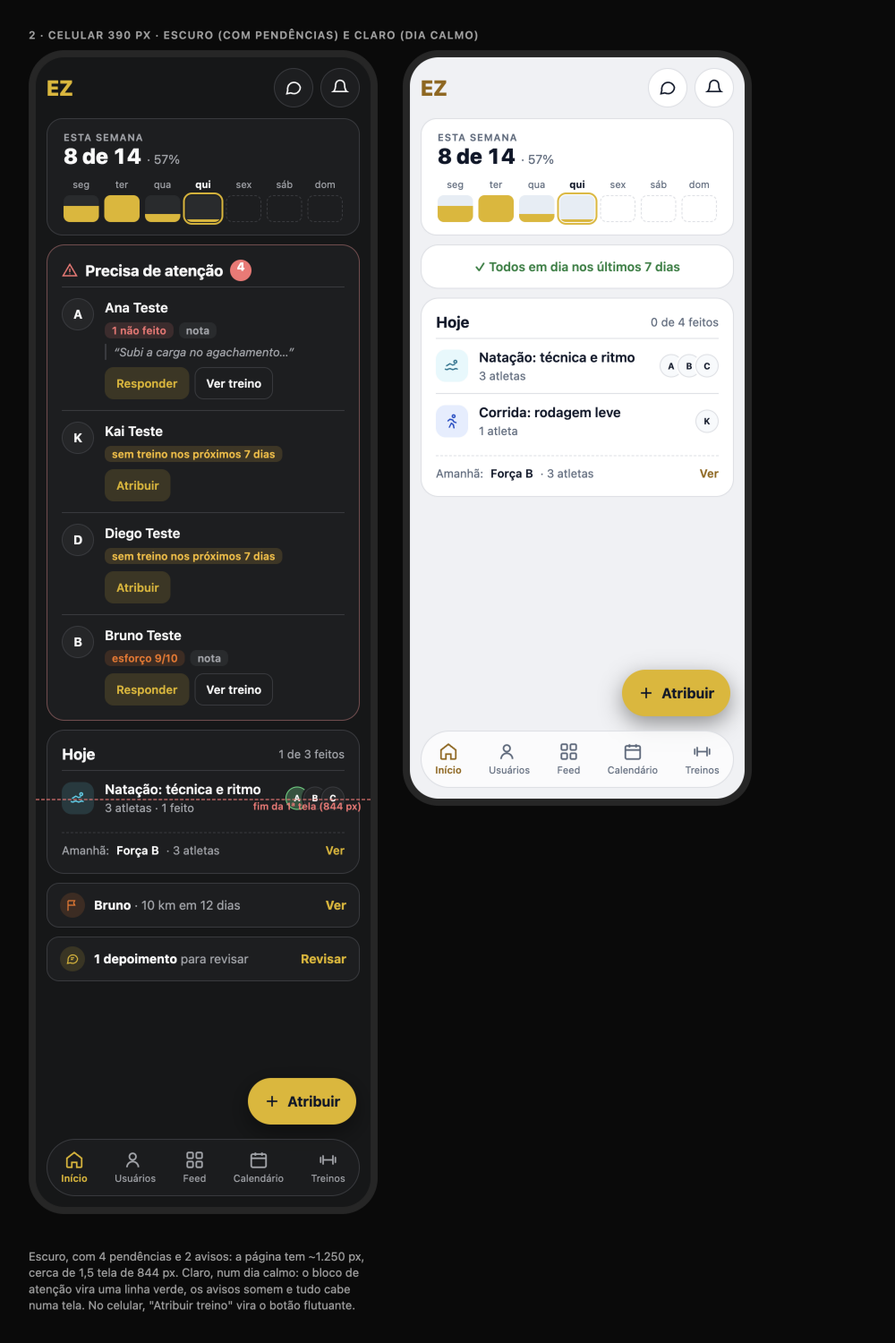
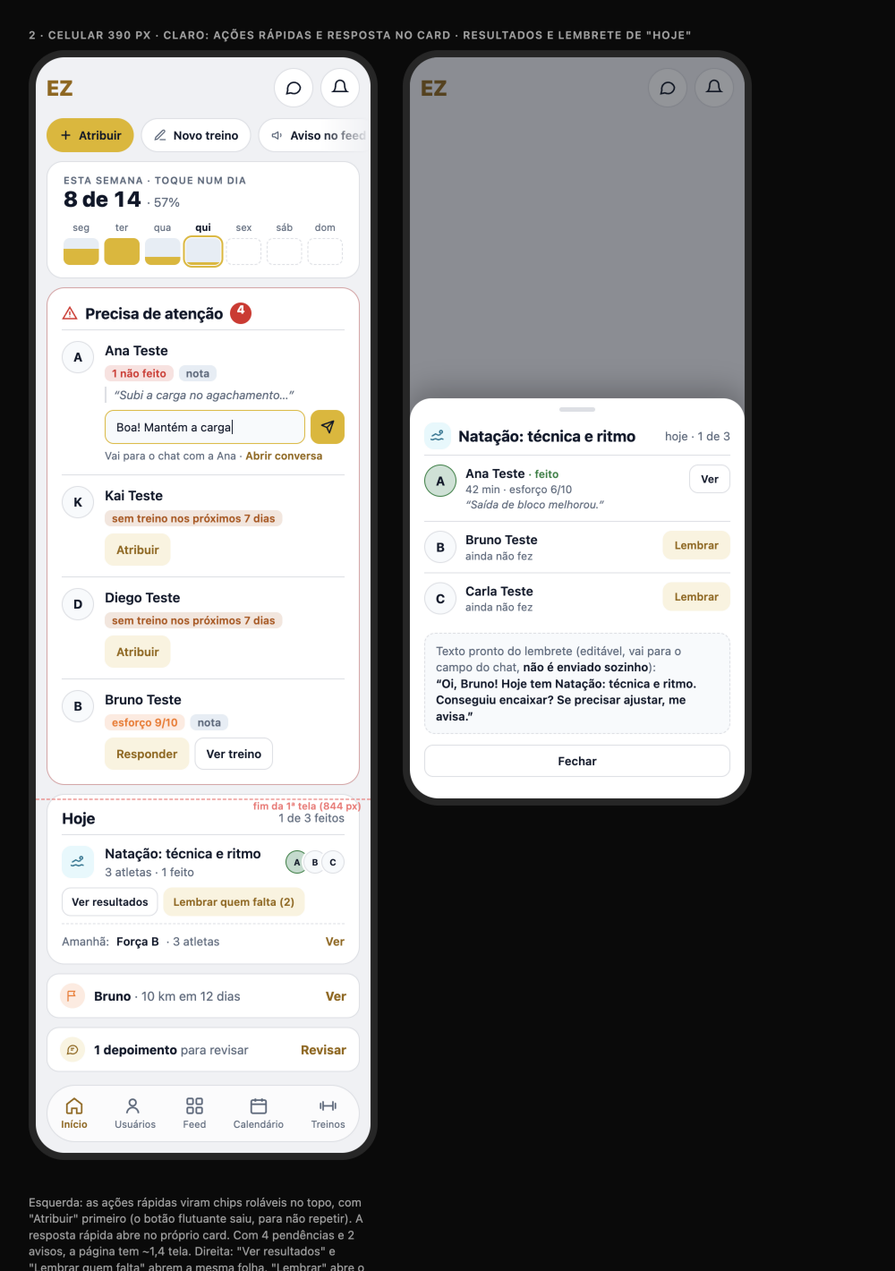
docs: coach dashboard quick actions (inline reply, today results/reminder, week day to calendar)

diff --git a/docs/design/coach-dashboard/dashboard-mockup.html b/docs/design/coach-dashboard/dashboard-mockup.html
@@ -3,7 +3,7 @@
 <head>
 <meta charset="utf-8">
 <meta name="viewport" content="width=device-width, initial-scale=1">
-<title>EZ · Dashboard do coach, versão enxuta (12/11/2026)</title>
+<title>EZ · Dashboard do coach, enxuto + ações rápidas (12/11/2026)</title>
 <!-- Mockup estático: só CSS e SVG inline. Dados fictícios do seed. Tokens: design-system §1.5. -->
 <style>
   :root{--font:'Inter',system-ui,-apple-system,'Segoe UI',sans-serif;--display:'Montserrat','Inter',system-ui,sans-serif;
@@ -70,6 +70,32 @@
   .tabs{position:absolute;left:12px;right:12px;bottom:12px;height:64px;border-radius:99px;display:flex;justify-content:space-around;align-items:center;font-size:11px;color:var(--mfg);background:color-mix(in srgb,var(--card) 70%,transparent);border:1px solid var(--border)}
   .tabs div{display:flex;flex-direction:column;align-items:center;gap:2px}.tabs .on{color:var(--ink);font-weight:600}.tabs svg{width:22px;height:22px}
   .fold{position:absolute;left:0;right:0;border-top:2px dashed hsl(0 91% 71% / .6);font:600 11px var(--font);color:hsl(0 91% 71%);text-align:right;padding-right:10px}
+
+  .qa{display:flex;gap:8px;align-items:center}
+  .qb{height:40px;padding:0 13px;border-radius:11px;border:1px solid var(--border);background:var(--card);font:600 13px var(--font);display:inline-flex;align-items:center;gap:7px;color:var(--fg);white-space:nowrap}
+  .qb svg{width:15px;height:15px;color:var(--mfg)}
+  .qb .new{font:700 10px var(--font);padding:1px 5px;border-radius:5px;background:hsl(48 96% 45% / .16);color:var(--ink)}
+  .rp{display:flex;gap:6px;margin-top:8px;align-items:center}
+  .rp .in{flex:1;height:38px;border-radius:10px;border:1px solid var(--primary);background:var(--s2);padding:0 12px;display:flex;align-items:center;font-size:13px;color:var(--fg);min-width:0;white-space:nowrap;overflow:hidden}
+  .rp .in i{width:1px;height:16px;background:var(--fg);margin-left:1px}
+  .rp .sd{width:38px;height:38px;border-radius:10px;background:var(--primary);display:grid;place-items:center;color:hsl(222 47% 11%);flex:none}.rp .sd svg{width:16px;height:16px}
+  .rph{font-size:12px;color:var(--mfg);margin-top:5px}.rph a{color:var(--ink);font-weight:600}
+  .wa{display:flex;gap:6px;margin:-2px 0 4px 48px}
+  .wa .ab{height:32px;font-size:12px;padding:0 10px}
+  .day{cursor:pointer}
+  .tip{position:absolute;top:44px;left:50%;transform:translateX(-50%);white-space:nowrap;background:var(--fg);color:var(--bg);font:600 12px var(--font);padding:5px 9px;border-radius:8px;z-index:2}
+  .tip:before{content:"";position:absolute;top:-5px;left:50%;margin-left:-5px;border:5px solid transparent;border-top:0;border-bottom-color:var(--fg)}
+  .chiprow{display:flex;gap:8px;overflow:hidden;margin:0 -12px;padding:0 12px;mask-image:linear-gradient(90deg,#000 85%,transparent)}
+  .chiprow .qb{height:38px;border-radius:99px}
+  .chiprow .qb.p{background:var(--primary);border-color:transparent;color:hsl(222 47% 11%)}.chiprow .qb.p svg{color:inherit}
+  .toast{position:absolute;left:50%;transform:translateX(-50%);bottom:24px;background:var(--fg);color:var(--bg);padding:10px 16px;border-radius:12px;font:600 13px var(--font);display:flex;gap:8px;align-items:center;box-shadow:0 8px 24px rgba(0,0,0,.35)}
+  .scrim{position:absolute;inset:0;background:rgba(15,20,30,.45)}
+  .sheet{position:absolute;left:0;right:0;bottom:0;background:var(--card);border-radius:24px 24px 0 0;padding:10px 16px 24px;box-shadow:0 -10px 30px rgba(0,0,0,.25)}
+  .sheet .gr{width:40px;height:5px;border-radius:9px;background:var(--border);margin:0 auto 12px}
+  .rr{display:flex;gap:10px;align-items:flex-start;padding:10px 0;border-top:1px solid var(--border);font-size:14px}
+  .rr .t{flex:1;min-width:0}.rr .t b{font-weight:600}.rr .t span{display:block;font-size:12px;color:var(--mfg)}
+  .draft{margin-top:10px;border-radius:12px;background:var(--s2);border:1px dashed var(--border);padding:10px 12px;font-size:13px;color:var(--mfg)}
+  .draft b{color:var(--fg);font-weight:600}
 </style>
 </head>
 <body>
@@ -88,22 +114,33 @@
   <symbol id="grid" viewBox="0 0 24 24" fill="none" stroke="currentColor" stroke-width="2"><rect x="3" y="3" width="7" height="7" rx="1.5"/><rect x="14" y="3" width="7" height="7" rx="1.5"/><rect x="3" y="14" width="7" height="7" rx="1.5"/><rect x="14" y="14" width="7" height="7" rx="1.5"/></symbol>
   <symbol id="cal" viewBox="0 0 24 24" fill="none" stroke="currentColor" stroke-width="2"><rect x="3" y="5" width="18" height="16" rx="2"/><path d="M3 10h18M8 3v4M16 3v4"/></symbol>
   <symbol id="bell" viewBox="0 0 24 24" fill="none" stroke="currentColor" stroke-width="2"><path d="M6 8a6 6 0 0 1 12 0c0 7 3 9 3 9H3s3-2 3-9"/></symbol>
+<symbol id="send" viewBox="0 0 24 24" fill="none" stroke="currentColor" stroke-width="2.2" stroke-linecap="round" stroke-linejoin="round"><path d="M22 2 11 13M22 2l-7 20-4-9-9-4Z"/></symbol>
+  <symbol id="edit" viewBox="0 0 24 24" fill="none" stroke="currentColor" stroke-width="2" stroke-linecap="round"><path d="M12 20h9"/><path d="M16.5 3.5a2.1 2.1 0 0 1 3 3L7 19l-4 1 1-4Z"/></symbol>
+  <symbol id="mega" viewBox="0 0 24 24" fill="none" stroke="currentColor" stroke-width="2" stroke-linejoin="round"><path d="M3 11v3a1 1 0 0 0 1 1h3l6 4V6L7 10H4a1 1 0 0 0-1 1Z"/><path d="M17 9a4 4 0 0 1 0 6"/></symbol>
+  <symbol id="team" viewBox="0 0 24 24" fill="none" stroke="currentColor" stroke-width="2"><circle cx="8" cy="8" r="3"/><circle cx="17" cy="9" r="2.5"/><path d="M2 20a6 6 0 0 1 12 0M14 20a4.5 4.5 0 0 1 8 0"/></symbol>
+  <symbol id="link" viewBox="0 0 24 24" fill="none" stroke="currentColor" stroke-width="2" stroke-linecap="round"><path d="M10 14a4 4 0 0 0 5.7 0l3-3a4 4 0 0 0-5.7-5.7l-1 1"/><path d="M14 10a4 4 0 0 0-5.7 0l-3 3a4 4 0 0 0 5.7 5.7l1-1"/></symbol>
+  <symbol id="bellr" viewBox="0 0 24 24" fill="none" stroke="currentColor" stroke-width="2"><path d="M6 8a6 6 0 0 1 12 0c0 7 3 9 3 9H3s3-2 3-9"/><path d="M10 21h4"/></symbol>
+  <symbol id="chart" viewBox="0 0 24 24" fill="none" stroke="currentColor" stroke-width="2" stroke-linecap="round"><path d="M4 20V10M10 20V4M16 20v-7M22 20H2"/></symbol>
+  <symbol id="check" viewBox="0 0 24 24" fill="none" stroke="currentColor" stroke-width="2.6" stroke-linecap="round" stroke-linejoin="round"><path d="m5 12 5 5 9-10"/></symbol>
 </defs></svg>
 
-<h1 class="ttl">EZ · Dashboard do coach: versão enxuta</h1>
-<p class="doc">Mockup estático (12/11/2026), dados fictícios do seed. Três perguntas, em ordem de importância: <b>quem precisa de mim?</b> (bloco principal, com ações) · <b>o que acontece hoje?</b> (agrupado por treino, com amanhã numa linha) · <b>como vai a semana?</b> (um número, "8 de 14 · 57%", só da semana, e a barra dos dias). Provas próximas e depoimento pendente só aparecem como aviso de uma linha quando existem.</p>
+<h1 class="ttl">EZ · Dashboard do coach: enxuto + ações rápidas</h1>
+<p class="doc">Mockup estático (12/11/2026), dados fictícios do seed. As mesmas três perguntas (<b>quem precisa de mim?</b> · <b>o que acontece hoje?</b> · <b>como vai a semana?</b>), agora com <b>mais ações e nenhum número a mais</b>: faixa de ações rápidas, resposta no próprio card, resultados e lembrete por treino, e cada dia da semana abre o Calendário. Nenhum dado novo; o que reaproveita e o que é código novo está no README.</p>
 
 <div class="lbl">1 · Desktop 1440 × 900 · escuro · cabe numa tela</div>
-<div class="row"><div class="desk dark">
+<div class="row"><div class="desk dark" style="position:relative">
  <div class="side"><div class="lg">EZ</div><div class="i on">Início</div><div class="i">Usuários</div><div class="i">Treinos</div><div class="i">Times</div><div class="i">Calendário</div><div class="i">Artigos</div><div class="i">Feed</div><div class="i">Depoimentos</div></div>
  <div class="main">
-  <div class="head"><div class="t"><small>Quinta, 12 nov</small><b>Bom dia, Coach</b></div><span class="btn"><svg width="16" height="16"><use href="#plus"/></svg>Atribuir treino</span></div>
+  <div class="head"><div class="t"><small>Quinta, 12 nov</small><b>Bom dia, Coach</b></div>
+   <div class="qa"><span class="qb"><svg width="14" height="14"><use href="#edit"/></svg>Novo treino</span><span class="qb"><svg width="14" height="14"><use href="#mega"/></svg>Aviso no feed</span><span class="qb"><svg width="14" height="14"><use href="#team"/></svg>Mensagem ao time</span><span class="qb"><svg width="14" height="14"><use href="#link"/></svg>Convidar atleta</span><span class="btn"><svg width="16" height="16"><use href="#plus"/></svg>Atribuir treino</span></div></div>
   <div class="wk"><div class="num"><small>Esta semana</small><b>8 de 14</b><span>· 57%</span></div>
-   <div class="days"><div class="day">seg<div class="col"><i style="height:60%"></i></div></div><div class="day">ter<div class="col"><i style="height:100%"></i></div></div><div class="day">qua<div class="col"><i style="height:30%"></i></div></div><div class="day on">qui<div class="col"><i style="height:10%"></i></div></div><div class="day">sex<div class="col fut"></div></div><div class="day">sáb<div class="col fut"></div></div><div class="day">dom<div class="col fut"></div></div></div></div>
+   <div class="days"><div class="day">seg<div class="col"><i style="height:60%"></i></div></div><div class="day">ter<div class="col"><i style="height:100%"></i></div></div><div class="day" style="position:relative">qua<div class="col" style="outline:2px solid var(--fg);outline-offset:1px"><i style="height:30%"></i></div><span class="tip">Abrir qua, 11 nov no Calendário</span></div><div class="day on">qui<div class="col"><i style="height:10%"></i></div></div><div class="day">sex<div class="col fut"></div></div><div class="day">sáb<div class="col fut"></div></div><div class="day">dom<div class="col fut"></div></div></div></div>
   <div class="g2">
    <div class="att">
     <div class="ch"><b><svg width="18" height="18" style="color:var(--badc)"><use href="#alert"/></svg>Precisa de atenção <span class="cnt">4</span></b><span class="r">últimos 7 dias</span></div>
-    <div class="ai wide"><span class="av">A</span><div class="t"><div class="nm">Ana Teste</div><div class="chips"><span class="chip c-bad">1 não feito</span><span class="chip c-mut">nota</span></div><div class="quote">“Subi a carga no agachamento. Última série pesada.”</div></div><div class="acts"><span class="ab y"><svg width="14" height="14"><use href="#msg"/></svg>Responder</span><span class="ab"><svg width="14" height="14"><use href="#eye"/></svg>Ver treino</span></div></div>
+    <div class="ai"><span class="av">A</span><div class="t"><div class="nm">Ana Teste</div><div class="chips"><span class="chip c-bad">1 não feito</span><span class="chip c-mut">nota</span></div><div class="quote">“Subi a carga no agachamento. Última série pesada.”</div>
+      <div class="rp"><div class="in">Boa! Na próxima, mantém a carga e controla a descida<i></i></div><span class="sd"><svg width="14" height="14"><use href="#send"/></svg></span></div>
+      <div class="rph">Vai para o chat com a Ana · Esc fecha · <a>Abrir conversa</a></div></div></div>
     <div class="ai wide"><span class="av">K</span><div class="t"><div class="nm">Kai Teste</div><div class="chips"><span class="chip c-warn">sem treino nos próximos 7 dias</span></div></div><div class="acts"><span class="ab y"><svg width="14" height="14"><use href="#plus"/></svg>Atribuir</span></div></div>
     <div class="ai wide"><span class="av">D</span><div class="t"><div class="nm">Diego Teste</div><div class="chips"><span class="chip c-warn">sem treino nos próximos 7 dias</span></div></div><div class="acts"><span class="ab y"><svg width="14" height="14"><use href="#plus"/></svg>Atribuir</span></div></div>
     <div class="ai wide"><span class="av">B</span><div class="t"><div class="nm">Bruno Teste</div><div class="chips"><span class="chip c-str">esforço 9/10</span><span class="chip c-mut">nota</span></div><div class="quote">“Saí mais cedo, dor no ombro.”</div></div><div class="acts"><span class="ab y"><svg width="14" height="14"><use href="#msg"/></svg>Responder</span><span class="ab"><svg width="14" height="14"><use href="#eye"/></svg>Ver treino</span></div></div>
@@ -111,6 +148,7 @@
    <div style="display:grid;gap:12px">
     <div class="card"><div class="ch" style="margin-bottom:8px"><b>Hoje</b><span class="r">1 de 3 feitos</span></div>
      <div class="ag"><span class="si" style="background:hsl(188 86% 53% / .15);color:var(--swim)"><svg><use href="#swim"/></svg></span><div class="t"><b>Natação: técnica e ritmo</b><span>3 atletas · 1 feito</span></div><span class="stack"><span class="av ok">A</span><span class="av">B</span><span class="av">C</span></span></div>
+     <div class="wa"><span class="ab"><svg width="14" height="14"><use href="#chart"/></svg>Ver resultados</span><span class="ab y"><svg width="14" height="14"><use href="#bellr"/></svg>Lembrar quem falta (2)</span></div>
      <div class="tmr">Amanhã: <b>Força B: membros superiores</b> · 3 atletas<a>Ver</a></div>
     </div>
     <div class="nt"><span class="ic" style="background:hsl(25 95% 53% / .15);color:var(--str)"><svg><use href="#flag"/></svg></span><span><b>Bruno Teste</b> <span class="m">· Corrida 10 km em 12 dias</span></span><a>Ver</a></div>
@@ -118,50 +156,51 @@
    </div>
   </div>
  </div>
+ <div class="toast" style="left:calc(220px + 50%)"><svg width="16" height="16"><use href="#check"/></svg>Link de convite do time copiado</div>
 </div></div>
-<p class="note" style="max-width:1100px;margin-top:-28px;margin-bottom:40px">Tudo cabe em 1440 × 900 sem rolar. Os avisos (prova em menos de 14 dias, depoimento para revisar) só aparecem quando existem; sem eles, a coluna da direita fica só com "Hoje". "Sem treino nos próximos 7 dias" continua visível, como o usuário pediu, com a ação Atribuir.</p>
+<p class="note" style="max-width:1100px;margin-top:-28px;margin-bottom:40px">Cabe em 1440 × 900 sem rolar. Estados mostrados ao mesmo tempo só para o mockup: resposta rápida aberta na Ana, dica ao passar o mouse em "qua" e o toast de "Convidar atleta". "Atribuir treino" continua o botão principal, à direita.</p>
 
-<div class="lbl">2 · Celular 390 px · escuro (com pendências) e claro (dia calmo)</div>
+<div class="lbl">2 · Celular 390 px · claro: ações rápidas e resposta no card · resultados e lembrete de "Hoje"</div>
 <div class="row">
-<div class="phone dark">
+<div class="phone light" style="height:1240px">
  <div class="top"><span style="font:800 24px var(--display);color:var(--ink)">EZ</span><div style="display:flex;gap:8px"><div class="g"><svg><use href="#msg"/></svg></div><div class="g"><svg><use href="#bell"/></svg></div></div></div>
  <div class="pp">
-  <div class="wk"><div class="num"><small>Esta semana</small><b>8 de 14</b><span>· 57%</span></div>
-   <div class="days"><div class="day">seg<div class="col"><i style="height:60%"></i></div></div><div class="day">ter<div class="col"><i style="height:100%"></i></div></div><div class="day">qua<div class="col"><i style="height:30%"></i></div></div><div class="day on">qui<div class="col"><i style="height:10%"></i></div></div><div class="day">sex<div class="col fut"></div></div><div class="day">sáb<div class="col fut"></div></div><div class="day">dom<div class="col fut"></div></div></div></div>
+  <div class="chiprow"><span class="qb p"><svg width="14" height="14"><use href="#plus"/></svg>Atribuir</span><span class="qb"><svg width="14" height="14"><use href="#edit"/></svg>Novo treino</span><span class="qb"><svg width="14" height="14"><use href="#mega"/></svg>Aviso no feed</span><span class="qb"><svg width="14" height="14"><use href="#team"/></svg>Mensagem ao time</span><span class="qb"><svg width="14" height="14"><use href="#link"/></svg>Convidar</span></div>
+  <div class="wk"><div class="num"><small>Esta semana · toque num dia</small><b>8 de 14</b><span>· 57%</span></div>
+   <div class="days"><div class="day">seg<div class="col"><i style="height:60%"></i></div></div><div class="day">ter<div class="col"><i style="height:100%"></i></div></div><div class="day" style="position:relative">qua<div class="col" ><i style="height:30%"></i></div></div><div class="day on">qui<div class="col"><i style="height:10%"></i></div></div><div class="day">sex<div class="col fut"></div></div><div class="day">sáb<div class="col fut"></div></div><div class="day">dom<div class="col fut"></div></div></div></div>
   <div class="att">
    <div class="ch"><b><svg width="18" height="18" style="color:var(--badc)"><use href="#alert"/></svg>Precisa de atenção <span class="cnt">4</span></b></div>
-   <div class="ai"><span class="av">A</span><div class="t"><div class="nm">Ana Teste</div><div class="chips"><span class="chip c-bad">1 não feito</span><span class="chip c-mut">nota</span></div><div class="quote">“Subi a carga no agachamento…”</div><div class="acts"><span class="ab y">Responder</span><span class="ab">Ver treino</span></div></div></div>
+   <div class="ai"><span class="av">A</span><div class="t"><div class="nm">Ana Teste</div><div class="chips"><span class="chip c-bad">1 não feito</span><span class="chip c-mut">nota</span></div><div class="quote">“Subi a carga no agachamento…”</div>
+     <div class="rp"><div class="in">Boa! Mantém a carga<i></i></div><span class="sd"><svg width="14" height="14"><use href="#send"/></svg></span></div>
+     <div class="rph">Vai para o chat com a Ana · <a>Abrir conversa</a></div></div></div>
    <div class="ai"><span class="av">K</span><div class="t"><div class="nm">Kai Teste</div><div class="chips"><span class="chip c-warn">sem treino nos próximos 7 dias</span></div><div class="acts"><span class="ab y">Atribuir</span></div></div></div>
    <div class="ai"><span class="av">D</span><div class="t"><div class="nm">Diego Teste</div><div class="chips"><span class="chip c-warn">sem treino nos próximos 7 dias</span></div><div class="acts"><span class="ab y">Atribuir</span></div></div></div>
    <div class="ai" style="padding-bottom:0"><span class="av">B</span><div class="t"><div class="nm">Bruno Teste</div><div class="chips"><span class="chip c-str">esforço 9/10</span><span class="chip c-mut">nota</span></div><div class="acts"><span class="ab y">Responder</span><span class="ab">Ver treino</span></div></div></div>
   </div>
   <div class="card"><div class="ch" style="margin-bottom:8px"><b>Hoje</b><span class="r">1 de 3 feitos</span></div>
-   <div class="ag"><span class="si" style="background:hsl(188 86% 53% / .15);color:var(--swim)"><svg><use href="#swim"/></svg></span><div class="t"><b>Natação: técnica e ritmo</b><span>3 atletas · 1 feito</span></div><span class="stack"><span class="av ok">A</span><span class="av">B</span><span class="av">C</span></span></div>
+   <div class="ag"><span class="si" style="background:hsl(188 86% 53% / .15);color:hsl(192 91% 30%)"><svg><use href="#swim"/></svg></span><div class="t"><b>Natação: técnica e ritmo</b><span>3 atletas · 1 feito</span></div><span class="stack"><span class="av ok">A</span><span class="av">B</span><span class="av">C</span></span></div>
+   <div class="wa" style="margin-left:0"><span class="ab">Ver resultados</span><span class="ab y">Lembrar quem falta (2)</span></div>
    <div class="tmr">Amanhã: <b>Força B</b> · 3 atletas<a>Ver</a></div>
   </div>
   <div class="nt"><span class="ic" style="background:hsl(25 95% 53% / .15);color:var(--str)"><svg><use href="#flag"/></svg></span><span><b>Bruno</b> <span class="m">· 10 km em 12 dias</span></span><a>Ver</a></div>
   <div class="nt"><span class="ic" style="background:hsl(48 96% 45% / .15);color:var(--ink)"><svg><use href="#quote"/></svg></span><span><b>1 depoimento</b> <span class="m">para revisar</span></span><a>Revisar</a></div>
  </div>
  <div class="fold" style="top:828px">fim da 1ª tela (844 px)</div>
- <div class="fab"><svg width="18" height="18"><use href="#plus"/></svg>Atribuir</div>
  <div class="tabs"><div class="on"><svg><use href="#home"/></svg>Início</div><div><svg><use href="#users"/></svg>Usuários</div><div><svg><use href="#grid"/></svg>Feed</div><div><svg><use href="#cal"/></svg>Calendário</div><div><svg><use href="#dumb"/></svg>Treinos</div></div>
 </div>
 <div class="phone light" style="height:844px">
  <div class="top"><span style="font:800 24px var(--display);color:var(--ink)">EZ</span><div style="display:flex;gap:8px"><div class="g"><svg><use href="#msg"/></svg></div><div class="g"><svg><use href="#bell"/></svg></div></div></div>
- <div class="pp">
-  <div class="wk"><div class="num"><small>Esta semana</small><b>8 de 14</b><span>· 57%</span></div>
-   <div class="days"><div class="day">seg<div class="col"><i style="height:60%"></i></div></div><div class="day">ter<div class="col"><i style="height:100%"></i></div></div><div class="day">qua<div class="col"><i style="height:30%"></i></div></div><div class="day on">qui<div class="col"><i style="height:10%"></i></div></div><div class="day">sex<div class="col fut"></div></div><div class="day">sáb<div class="col fut"></div></div><div class="day">dom<div class="col fut"></div></div></div></div>
-  <div class="card" style="text-align:center;font-size:14px;color:var(--okc);font-weight:600;padding:14px">✓ Todos em dia nos últimos 7 dias</div>
-  <div class="card"><div class="ch" style="margin-bottom:8px"><b>Hoje</b><span class="r">0 de 4 feitos</span></div>
-   <div class="ag"><span class="si" style="background:hsl(188 86% 53% / .15);color:hsl(192 91% 30%)"><svg><use href="#swim"/></svg></span><div class="t"><b>Natação: técnica e ritmo</b><span>3 atletas</span></div><span class="stack"><span class="av">A</span><span class="av">B</span><span class="av">C</span></span></div>
-   <div class="ag"><span class="si" style="background:hsl(217 91% 60% / .14);color:hsl(221 83% 43%)"><svg><use href="#run"/></svg></span><div class="t"><b>Corrida: rodagem leve</b><span>1 atleta</span></div><span class="stack"><span class="av">K</span></span></div>
-   <div class="tmr">Amanhã: <b>Força B</b> · 3 atletas<a>Ver</a></div>
-  </div>
+ <div class="scrim"></div>
+ <div class="sheet"><div class="gr"></div>
+  <div class="ch"><b><span class="si" style="width:30px;height:30px;background:hsl(188 86% 53% / .15);color:hsl(192 91% 30%)"><svg width="16" height="16"><use href="#swim"/></svg></span>Natação: técnica e ritmo</b><span class="r">hoje · 1 de 3</span></div>
+  <div class="rr"><span class="av" style="background:color-mix(in srgb,var(--okc) 20%,var(--s2));border-color:var(--okc)">A</span><div class="t"><b>Ana Teste</b> <span style="display:inline;color:var(--okc);font-weight:600">· feito</span><span>42 min · esforço 6/10</span><span style="font-style:italic">“Saída de bloco melhorou.”</span></div><span class="ab" style="height:32px;font-size:12px">Ver</span></div>
+  <div class="rr"><span class="av">B</span><div class="t"><b>Bruno Teste</b><span>ainda não fez</span></div><span class="ab y" style="height:32px;font-size:12px">Lembrar</span></div>
+  <div class="rr"><span class="av">C</span><div class="t"><b>Carla Teste</b><span>ainda não fez</span></div><span class="ab y" style="height:32px;font-size:12px">Lembrar</span></div>
+  <div class="draft">Texto pronto do lembrete (editável, vai para o campo do chat, <b>não é enviado sozinho</b>):<br><b>“Oi, Bruno! Hoje tem Natação: técnica e ritmo. Conseguiu encaixar? Se precisar ajustar, me avisa.”</b></div>
+  <div style="display:flex;margin-top:12px"><span class="ab" style="flex:1;justify-content:center">Fechar</span></div>
  </div>
- <div class="fab"><svg width="18" height="18"><use href="#plus"/></svg>Atribuir</div>
- <div class="tabs"><div class="on"><svg><use href="#home"/></svg>Início</div><div><svg><use href="#users"/></svg>Usuários</div><div><svg><use href="#grid"/></svg>Feed</div><div><svg><use href="#cal"/></svg>Calendário</div><div><svg><use href="#dumb"/></svg>Treinos</div></div>
 </div>
-<p class="note">Escuro, com 4 pendências e 2 avisos: a página tem ~1.250 px, cerca de 1,5 tela de 844 px. Claro, num dia calmo: o bloco de atenção vira uma linha verde, os avisos somem e tudo cabe numa tela. No celular, "Atribuir treino" vira o botão flutuante.</p>
+<p class="note">Esquerda: as ações rápidas viram chips roláveis no topo, com "Atribuir" primeiro (o botão flutuante saiu, para não repetir). A resposta rápida abre no próprio card. Com 4 pendências e 2 avisos, a página tem ~1,4 tela. Direita: "Ver resultados" e "Lembrar quem falta" abrem a mesma folha. "Lembrar" abre o chat de cada atleta com o texto já no campo; o coach revisa e envia.</p>
 </div>
 </body>
 </html>

diff --git a/docs/design/coach-dashboard/README.md b/docs/design/coach-dashboard/README.md
@@ -1,4 +1,4 @@
-# Dashboard do coach (/admin): diagnóstico e proposta enxuta
+# Dashboard do coach (/admin): diagnóstico e proposta enxuta + ações rápidas
 
 **Data:** 12/11/2026 · **Quem:** EZ Design · **Base:** `main` 44563a3 · **Guia:** `docs/design/design-system.md` · **Linguagem:** cards do feed e da tela "Você" (`docs/design/profile`)
 **Mockup:** [`dashboard-mockup.html`](dashboard-mockup.html) · **Prévias:** [`img/`](img/)
@@ -8,7 +8,9 @@
 2. **O que acontece hoje?** Os treinos agrupados, com amanhã numa linha.
 3. **Como vai a semana?** Um número e a barra dos dias.
 
-**Meta:** cabe numa tela em 1440 × 900; no celular, cerca de 1,5 tela com pendências e 1 tela num dia calmo.
+**Meta:** cabe numa tela em 1440 × 900; no celular, ~1,4 tela com 4 pendências e 2 avisos.
+
+**Ajuste de 12/11 (pedido do usuário: "mais algumas infos de ação rápida para o coach"):** os 3 blocos ficam; entram **ações, nenhum número a mais**. Nada novo no Firestore. Cada ação está marcada como **reaproveita** (o fluxo já existe e só ganha um atalho) ou **novo** (código novo de UI, sem dado novo).
 
 Testado no emulador como `coach@ez.test`, em 1440 px e 390 px, tema escuro. Dados do mockup: fictícios, do seed.
 
@@ -34,14 +36,29 @@ Testado no emulador como `coach@ez.test`, em 1440 px e 390 px, tema escuro. Dado
 
 ## 2. Proposta enxuta
 
-![Desktop 1440, uma tela](img/proposta-1-desktop.png)
-![Celular: escuro com pendências, claro num dia calmo](img/proposta-2-mobile.png)
+![Desktop 1440 escuro, uma tela, com ações rápidas](img/proposta-1-desktop.png)
+![Celular claro: chips de ação e resposta no card; folha de resultados e lembrete](img/proposta-2-mobile.png)
 
-**Ordem:** cabeçalho (data, saudação, "Atribuir treino") → **semana numa linha** → **precisa de atenção** (desktop: coluna principal) → **hoje** (+ linha de amanhã) → avisos, só quando existem.
+**Ordem:** cabeçalho (data, saudação, **ações rápidas**) → **semana numa linha** → **precisa de atenção** (desktop: coluna principal) → **hoje** (+ linha de amanhã) → avisos, só quando existem.
+
+### 2.0 Ações rápidas (faixa abaixo da saudação)
+- **Desktop:** na linha da saudação, à direita; "Atribuir treino" continua o botão principal (amarelo, por último) e as outras 4 são botões de contorno.
+- **Celular:** chips roláveis no topo, com "Atribuir" primeiro. **O botão flutuante sai** (repetiria "Atribuir").
+
+| Ação | O que faz | Status | Onde já existe |
+|---|---|---|---|
+| Atribuir treino | Abre o modal de atribuição | reaproveita | `assignDialogOpen` em `Dashboard.tsx` |
+| Novo treino | Menu com a modalidade → editor | reaproveita | `/admin/workouts/new?type=running\|cycling\|swimming`, `/admin/workouts/strength/new` |
+| Aviso no feed | Abre o composer do feed | reaproveita | `useTimelineActions().setCreateOpen(true)` + `CreatePostModal` (no `AdminLayout`). É um post normal: **não existe tipo "aviso" nem fixar no topo** (isso exigiria dado novo; fica de fora). |
+| Mensagem ao time | Abre o chat do grupo do time | reaproveita | `ChatService.createOrGetGroupChat(team…)` + `/admin/chat` com `state.openChatId` |
+| Convidar atleta | Copia o link de convite; toast "Link de convite do time copiado" | reaproveita | `team.inviteToken` → `/join/:inviteToken`; a cópia já existe em `TeamDetail.tsx:109-114` |
+
+- Com **mais de um time**, "Mensagem ao time" e "Convidar atleta" abrem um menu para escolher o time; com um time só, a ação é direta.
 
 ### 2.1 Semana numa linha
 - **Um número só:** "8 de 14 · 57%", com os treinos feitos sobre os previstos **da semana atual** (seg–dom), sem os antigos.
 - **Barra por dia:** 7 colunas com a altura igual à % feita; hoje tem contorno e os dias futuros ficam tracejados.
+- **Tocar num dia abre o Calendário do coach nesse dia** (dica no hover: "Abrir qua, 11 nov no Calendário"). **Novo (pequeno):** `/admin/calendar` hoje não lê data da URL; precisa aceitar `?date=AAAA-MM-DD` e chamar `setSelectedDate`/`setCurrentMonth`, que já existem.
 - **Dados:** vêm das atribuições já carregadas (`completedAt`, `scheduledDate`). **Nada novo.**
 
 ### 2.2 Precisa de atenção (bloco principal)
@@ -57,16 +74,20 @@ Testado no emulador como `coach@ez.test`, em 1440 px e 390 px, tema escuro. Dado
 | `noPlan` | "sem treino nos próximos 7 dias", `warning-ink` | Atribuir |
 
 - **Ações:**
-  - **Responder** abre o chat com o atleta.
+  - **Responder** (**novo**) abre uma **resposta rápida no próprio card**: campo de 1 linha + enviar. Envia no chat do atleta (`ChatService.createOrGetChat` + `sendMessage`, que já existem), fecha o campo e mostra "Enviado · Abrir conversa". Esc ou tocar fora fecha sem enviar; o texto fica como rascunho do chat (`ez-chat-draft-v1:<chatId>`, já existe).
   - **Ver treino** abre a atividade (o `assignmentId` já vem no motivo).
   - **Atribuir** abre o modal com o atleta já escolhido.
 - **Ordem:** pelo peso que já existe (overdue 3, skipped 2, highEffort 2, noPlan 2, note 1).
 - **Vazio:** uma linha verde, "✓ Todos em dia nos últimos 7 dias".
 - "Sem treino nos próximos 7 dias" **continua**, como o usuário pediu.
+- **"Marcar como visto" ficou de fora:** não existe campo de "visto" nas atribuições, e guardar só no navegador faria o atleta voltar em outro aparelho. Exige dado novo (um `dismissedAt` por motivo).
 
 ### 2.3 Hoje
 - **Agrupado por treino:** "Natação: técnica e ritmo · 3 atletas · 1 feito", com o ícone da modalidade e os avatares empilhados. Tocar abre a lista de atletas.
 - No título do card: "1 de 3 feitos".
+- **Ações por treino (novo, sem dado novo):**
+  - **Ver resultados** abre uma folha (celular) ou popover (desktop) com cada atleta: feito ou não, duração, esforço (`rpe`) e nota (`athleteNotes`), e "Ver" para a atividade (`/admin/athletes/:athleteId/activity/:id`, já existe).
+  - **Lembrar quem falta (N)** aparece só quando falta alguém. Abre a mesma folha com "Lembrar" por atleta: abre o chat dele com o **texto pronto no campo** ("Oi, Bruno! Hoje tem Natação: técnica e ritmo. Conseguiu encaixar? Se precisar ajustar, me avisa."). **Nada é enviado sozinho**; o coach revisa e envia. Como: grava o rascunho em `ez-chat-draft-v1:<chatId>` e navega com `state.openChatId`. Lembrete individual, não no grupo, para não expor quem não treinou.
 - **Amanhã** é **uma linha** no fim do card: "Amanhã: Força B · 3 atletas · Ver".
 - **Sem treino hoje:** "Nenhum treino hoje", e a linha de amanhã continua.
 
@@ -94,17 +115,20 @@ Testado no emulador como `coach@ez.test`, em 1440 px e 390 px, tema escuro. Dado
 
 ## 3. Backlog para o EZ Frontend (em ordem)
 
-**⭐ = maior ganho em ~1 dia** (CD-1 a CD-3).
+**⭐ = maior ganho em ~1 dia** (CD-1 a CD-4).
 
 | ID | Tarefa | Tam. | Arquivos |
 |---|---|---|---|
-| ⭐ CD-1 | **Precisa de atenção como bloco principal:** coluna principal no desktop e 2º bloco no celular; chips por motivo; Responder / Ver treino / Atribuir; estado vazio. | M | `src/pages/admin/Dashboard.tsx` (bloco `attention`, ~l. 176-215, e o JSX), `src/components/admin/AttentionList.tsx` (novo) |
-| ⭐ CD-2 | **Semana numa linha:** "x de y · %" só da semana atual + barra por dia. Hook `useTeamWeekStats(assignments)`, com teste. | P | `Dashboard.tsx`, `src/hooks/useTeamWeekStats.ts` (novo) |
-| ⭐ CD-3 | **Remover o que saiu:** cards de inventário, "Conclusão geral", tendência (`LineChart`), tabela de atletas, "Destaques", faixa de datas, "Atividade de hoje", "Atividade recente", "Times", bloco "Amanhã". | P | `Dashboard.tsx` (~l. 400-760) |
-| CD-4 | **Hoje agrupado por treino** + linha "Amanhã" no fim do card. | P | `Dashboard.tsx` |
-| CD-5 | **Avisos condicionais:** prova em menos de 14 dias e depoimento pendente, uma linha cada, nada quando não existem. | P | `Dashboard.tsx` |
-| CD-6 | QA: 1440 × 900 sem rolar; 390 px em ~1,5 tela com 4 pendências e 2 avisos; claro e escuro; com 0 pendências, 0 treinos hoje e 0 avisos (EZ QA). | P | testes do EZ QA |
+| ⭐ CD-1 | **Precisa de atenção como bloco principal:** coluna principal no desktop e 2º bloco no celular; chips por motivo; **resposta rápida no card** (campo + enviar no chat); Ver treino; Atribuir; estado vazio. | M | `src/pages/admin/Dashboard.tsx` (bloco `attention`, ~l. 176-215, e o JSX), `src/components/admin/AttentionList.tsx` (novo), `src/services/chat.ts` (só uso) |
+| ⭐ CD-2 | **Semana numa linha:** "x de y · %" só da semana atual + barra por dia; **tocar no dia abre `/admin/calendar?date=`** (Calendar passa a ler `date`). Hook `useTeamWeekStats(assignments)`, com teste. | P | `Dashboard.tsx`, `src/hooks/useTeamWeekStats.ts` (novo), `src/pages/admin/Calendar.tsx` |
+| ⭐ CD-3 | **Ações rápidas:** faixa no desktop e chips roláveis no celular (Atribuir, Novo treino, Aviso no feed, Mensagem ao time, Convidar atleta), todas com fluxos que já existem; menu de time quando houver mais de um; remover o botão flutuante. | P | `Dashboard.tsx`, `src/components/admin/QuickActions.tsx` (novo), `src/contexts/TimelineActionsContext.tsx` (só uso) |
+| ⭐ CD-4 | **Remover o que saiu:** cards de inventário, "Conclusão geral", tendência (`LineChart`), tabela de atletas, "Destaques", faixa de datas, "Atividade de hoje", "Atividade recente", "Times", bloco "Amanhã". | P | `Dashboard.tsx` (~l. 400-760) |
+| CD-5 | **Hoje agrupado por treino** + linha "Amanhã" + **Ver resultados / Lembrar quem falta** (folha com rpe e nota; "Lembrar" abre o chat com o texto no campo, sem envio automático). | M | `Dashboard.tsx`, `src/components/admin/TodayWorkoutSheet.tsx` (novo), `src/components/chat/ChatWindow.tsx` (rascunho já existe) |
+| CD-6 | **Avisos condicionais:** prova em menos de 14 dias e depoimento pendente, uma linha cada, nada quando não existem. | P | `Dashboard.tsx` |
+| CD-7 | QA: 1440 × 900 sem rolar; 390 px em ~1,4 tela com 4 pendências e 2 avisos; claro e escuro; com 0 pendências, 0 treinos hoje, 0 avisos, 1 e 2 times; resposta rápida (enviar, Esc, erro de rede); lembrete não envia sozinho (EZ QA). | P | testes do EZ QA |
 
-**Ordem:** CD-1 → CD-2 → CD-3 (≈ 1 dia) → CD-4 → CD-5 → CD-6.
+**Ordem:** CD-1 → CD-2 → CD-3 → CD-4 (≈ 1 dia) → CD-5 → CD-6 → CD-7.
+
+**Fora (exige dado novo):** "Marcar como visto" (`dismissedAt` por motivo) e aviso fixado no feed (tipo/pin no post).
 
 O backlog anterior (cartão com 4 números, tabela de atletas, sparkline de 8 semanas) foi **substituído** por este.
